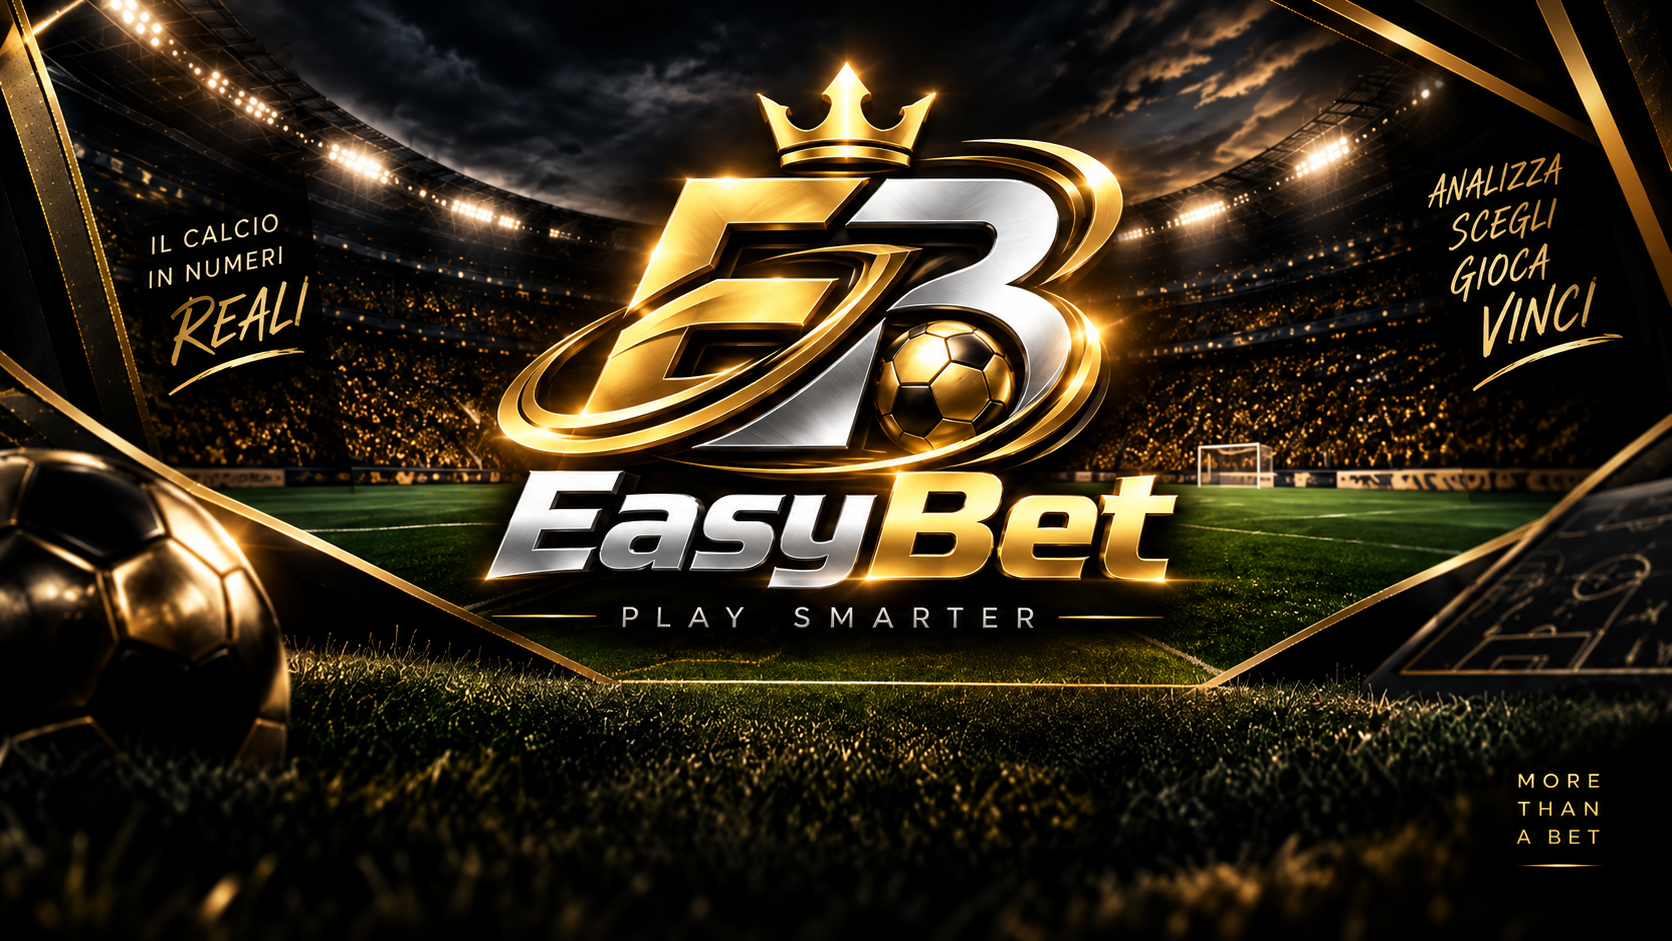
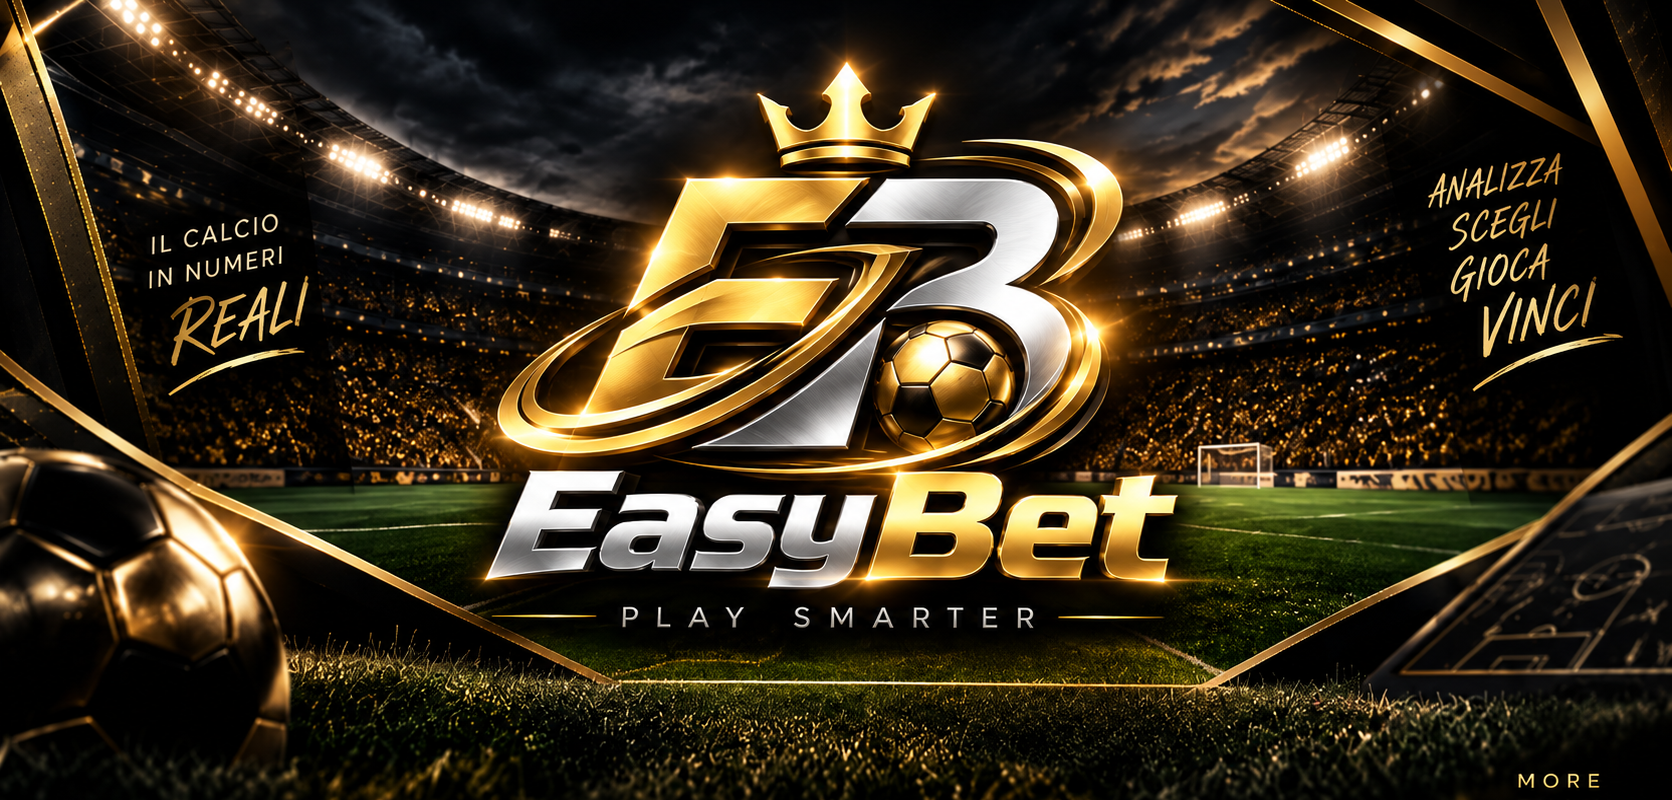
Add files via upload

diff --git a/public/easybet.html b/public/easybet.html
@@ -21,7 +21,7 @@ a{text-decoration:none;color:inherit}.num{font-family:'IBM Plex Mono',monospace}
 .brand-copy{line-height:1}.brand-copy strong{font-size:1.28rem}.brand-copy strong span{color:var(--gold2)}.brand-copy small{display:block;margin-top:4px;color:#8d8473;font-size:.57rem;letter-spacing:.24em}
 .nav{display:flex;justify-content:center;gap:24px}.nav a{font-size:.78rem;color:#c3baa8;font-weight:600;padding:28px 0 24px;position:relative}.nav a.active,.nav a:hover{color:#fff}.nav a.active:after{content:"";position:absolute;left:0;right:0;bottom:12px;height:2px;background:linear-gradient(90deg,transparent,var(--gold2),transparent)}
 .nav-actions{display:flex;justify-content:flex-end;gap:10px}.nav-btn{padding:11px 19px;border-radius:10px;font-size:.76rem;font-weight:700;border:1px solid rgba(242,208,110,.28);background:#0f0f0e;color:#fff}.nav-btn.primary{background:linear-gradient(180deg,var(--gold2),var(--gold));color:#1b1407;box-shadow:0 8px 22px rgba(216,173,61,.2)}.mobile-menu-btn{display:none;width:44px;height:44px;border-radius:12px;border:1px solid rgba(242,208,110,.28);background:#0f0f0e;color:var(--gold2);font-size:1.2rem;font-weight:800;align-items:center;justify-content:center;cursor:pointer}.mobile-nav{display:none;background:#0b0b0a;border-top:1px solid rgba(242,208,110,.12);border-bottom:1px solid rgba(242,208,110,.12);padding:10px 14px 12px}.mobile-nav.open{display:grid;grid-template-columns:repeat(2,minmax(0,1fr));gap:8px}.mobile-nav a{display:flex;align-items:center;justify-content:center;min-height:46px;padding:10px;border-radius:12px;border:1px solid #2b271f;background:#11100e;color:#d8cfbe;font-size:.8rem;font-weight:700}.mobile-nav a.active,.mobile-nav a:hover{color:#171105;background:linear-gradient(180deg,var(--gold2),var(--gold));border-color:var(--gold)}
-.hero{position:relative;background:#0a0907}.hero img{width:100%;display:block;height:350px;object-fit:cover;object-position:center 34%}.hero:after{content:"";position:absolute;left:0;right:0;bottom:0;height:30px;background:linear-gradient(180deg,transparent,#080807)}
+.hero{position:relative;background:#0a0907}.hero img{width:100%;display:block;height:800px;object-fit:cover;object-position:center top}.hero:after{content:"";position:absolute;left:0;right:0;bottom:0;height:30px;background:linear-gradient(180deg,transparent,#080807)}
 .section{padding:14px 24px 34px;background:linear-gradient(180deg,#090909,#060606)}
 .section-head{display:flex;justify-content:space-between;align-items:center;gap:14px;padding:8px 0 12px}.title-wrap{display:flex;align-items:center;gap:12px}.accent-line{width:6px;height:34px;border-radius:3px;background:linear-gradient(180deg,var(--gold2),var(--gold));box-shadow:0 0 18px rgba(242,208,110,.24)}
 .section-head h2{margin:0;font-size:1.16rem;letter-spacing:.01em}.section-head p{margin:3px 0 0;color:#9a9180;font-size:.72rem;letter-spacing:.05em}.refresh{font-size:.7rem;color:#7f7768}
@@ -31,8 +31,8 @@ a{text-decoration:none;color:inherit}.num{font-family:'IBM Plex Mono',monospace}
 .matchup{position:relative;z-index:1;display:grid;grid-template-columns:1fr auto 1fr;align-items:center;gap:10px;padding:14px 8px 12px;border-radius:16px;background:linear-gradient(180deg,rgba(255,255,255,.025),rgba(255,255,255,.01));border:1px solid rgba(255,255,255,.05)}.team{text-align:center}.role{font-size:.58rem;text-transform:uppercase;letter-spacing:.16em;color:#b7ad99;margin-bottom:8px}.crest-wrap{width:84px;height:84px;border-radius:18px;margin:0 auto 8px;display:grid;place-items:center;background:rgba(14,14,13,.82);border:1px solid rgba(255,255,255,.08);box-shadow:inset 0 1px 0 rgba(255,255,255,.04)}.crest{width:64px;height:64px;object-fit:contain}.crest.placeholder{display:grid;place-items:center;color:#d8c39b;font-weight:800;font-size:1rem}.team-name{font-size:.92rem;font-weight:800}.vs{width:46px;height:46px;border-radius:50%;display:grid;place-items:center;background:linear-gradient(180deg,var(--gold2),var(--gold));color:#1a1408;font-weight:800;box-shadow:0 6px 14px rgba(216,173,61,.22)}
 .info-grid{position:relative;z-index:1;display:grid;grid-template-columns:1fr 1fr;gap:0;border-top:1px solid rgba(243,210,113,.55);margin-top:2px;padding-top:10px}.info{background:transparent;border:none;border-radius:0;padding:0 10px}.info + .info{border-left:1px solid rgba(243,210,113,.45)}.info label{font-size:.58rem;text-transform:uppercase;letter-spacing:.09em;color:#b7ad99}.info strong{display:block;margin-top:6px;font-size:1.08rem}.info.strategy strong{font-size:.9rem;line-height:1.22}
 .status{position:relative;z-index:1;margin-top:auto;padding:10px 14px;border-radius:14px;text-transform:uppercase;border:1px solid;display:flex;align-items:center;justify-content:center;gap:12px;min-height:56px}.status-icon{font-size:1.7rem;line-height:1}.status-copy{display:flex;flex-direction:column;align-items:flex-start;line-height:1}.status-copy small{font-size:.55rem;letter-spacing:.18em;opacity:.95;margin-bottom:4px}.status-copy strong{font-size:1rem;letter-spacing:.02em}.status.entrata_vinta{color:#18ff63;background:linear-gradient(180deg,rgba(4,90,33,.90),rgba(7,71,28,.96));border-color:rgba(30,242,103,.92);box-shadow:inset 0 0 0 1px rgba(30,242,103,.22),0 0 18px rgba(30,242,103,.24)}.status.entrata_persa{color:#ffd9d8;background:linear-gradient(180deg,rgba(120,19,18,.92),rgba(94,13,12,.96));border-color:rgba(255,85,79,.92);box-shadow:inset 0 0 0 1px rgba(255,85,79,.18),0 0 16px rgba(255,85,79,.22)}.status.non_entrata{color:#ffe8a2;background:linear-gradient(180deg,rgba(112,87,14,.92),rgba(94,70,9,.96));border-color:rgba(255,211,79,.92);box-shadow:inset 0 0 0 1px rgba(255,211,79,.18),0 0 16px rgba(255,211,79,.20)}.status.attesa{color:#eef2f8;background:linear-gradient(180deg,rgba(58,63,74,.62),rgba(44,48,56,.74));border-color:rgba(170,177,188,.38)}.empty{grid-column:1/-1;text-align:center;color:#847b6b;padding:50px}
-@media(max-width:900px){.page-shell{width:min(100vw - 16px,100vw - 16px);margin:8px auto 20px}.topbar{grid-template-columns:1fr auto auto;height:auto;padding:12px 16px}.nav{display:none}.mobile-menu-btn{display:flex}.hero img{height:230px;object-fit:cover;object-position:center 36%}.section{padding:12px 14px 28px}.grid{grid-template-columns:repeat(auto-fill,minmax(210px,1fr));justify-content:stretch}.nav-actions{gap:6px}.nav-btn{padding:9px 12px}}
-@media(max-width:560px){body{background:#070707}.page-shell{width:100%;margin:0;border-radius:0}.topbar{grid-template-columns:1fr auto auto;padding:12px}.brand-copy small{display:none}.nav-actions .nav-btn:first-child{display:none}.nav-actions .nav-btn.primary{padding:10px 14px}.mobile-menu-btn{width:42px;height:42px}.mobile-nav.open{grid-template-columns:1fr 1fr;padding:10px 12px 12px}.hero img{height:200px;object-position:center 38%}.toolbar{justify-content:flex-start}.pills{width:100%}.pill{flex:1}.grid{grid-template-columns:1fr}.info-grid{grid-template-columns:1fr}}
+@media(max-width:900px){.page-shell{width:min(100vw - 16px,100vw - 16px);margin:8px auto 20px}.topbar{grid-template-columns:1fr auto auto;height:auto;padding:12px 16px}.nav{display:none}.mobile-menu-btn{display:flex}.hero img{height:420px;object-fit:cover;object-position:center top}.section{padding:12px 14px 28px}.grid{grid-template-columns:repeat(auto-fill,minmax(210px,1fr));justify-content:stretch}.nav-actions{gap:6px}.nav-btn{padding:9px 12px}}
+@media(max-width:560px){body{background:#070707}.page-shell{width:100%;margin:0;border-radius:0}.topbar{grid-template-columns:1fr auto auto;padding:12px}.brand-copy small{display:none}.nav-actions .nav-btn:first-child{display:none}.nav-actions .nav-btn.primary{padding:10px 14px}.mobile-menu-btn{width:42px;height:42px}.mobile-nav.open{grid-template-columns:1fr 1fr;padding:10px 12px 12px}.hero img{height:280px;object-position:center top}.toolbar{justify-content:flex-start}.pills{width:100%}.pill{flex:1}.grid{grid-template-columns:1fr}.info-grid{grid-template-columns:1fr}}
 
 .stats-dashboard{display:none;grid-template-columns:repeat(12,minmax(0,1fr));gap:16px;margin-top:6px}.stats-dashboard.show{display:grid}.stat-box{grid-column:span 3;background:linear-gradient(180deg,#141310,#0c0c0b);border:1px solid #2c2922;border-radius:18px;padding:18px;box-shadow:0 12px 28px rgba(0,0,0,.22)}.stat-box .stat-label{font-size:.68rem;color:#978e7e;text-transform:uppercase;letter-spacing:.12em}.stat-box .stat-value{font-size:2rem;font-weight:800;margin-top:8px}.stat-box .stat-foot{font-size:.72rem;color:#8d8474;margin-top:6px}.stat-box.win{border-color:rgba(36,216,108,.34)}.stat-box.win .stat-value{color:var(--green)}.stat-box.loss{border-color:rgba(255,75,69,.34)}.stat-box.loss .stat-value{color:var(--red)}.stat-box.skip{border-color:rgba(240,200,60,.34)}.stat-box.skip .stat-value{color:var(--yellow)}.stat-box.rate{border-color:rgba(243,210,113,.34)}.stat-box.rate .stat-value{color:var(--gold2)}.chart-box{grid-column:span 6;background:linear-gradient(180deg,#12110f,#0b0b0a);border:1px solid #2b271f;border-radius:20px;padding:18px;min-height:320px}.chart-title{font-size:.92rem;font-weight:800}.chart-sub{font-size:.7rem;color:#8c8373;margin-top:3px}.donut-wrap{display:flex;align-items:center;justify-content:center;gap:26px;height:250px;flex-wrap:wrap}.donut{width:190px;height:190px;border-radius:50%;position:relative;background:conic-gradient(var(--green) 0 var(--winPct,0%),var(--red) var(--winPct,0%) calc(var(--winPct,0%) + var(--lossPct,0%)),var(--yellow) calc(var(--winPct,0%) + var(--lossPct,0%)) 100%);box-shadow:0 0 28px rgba(0,0,0,.35)}.donut:after{content:'';position:absolute;inset:31px;border-radius:50%;background:#0e0e0d;border:1px solid #26231d}.donut-center{position:absolute;inset:0;display:grid;place-items:center;z-index:2;text-align:center}.donut-center strong{font-size:1.7rem}.donut-center span{font-size:.62rem;color:#8f8778;text-transform:uppercase;letter-spacing:.1em}.chart-legend{display:flex;flex-direction:column;gap:12px;min-width:170px}.chart-legend-row{display:flex;align-items:center;justify-content:space-between;gap:16px;font-size:.78rem}.chart-legend-row span:first-child{display:flex;align-items:center;gap:8px}.dot{width:10px;height:10px;border-radius:50%}.dot.g{background:var(--green)}.dot.r{background:var(--red)}.dot.y{background:var(--yellow)}.trend-wrap{height:250px;margin-top:14px;position:relative}.trend-svg{width:100%;height:100%;overflow:visible}.trend-grid{stroke:rgba(255,255,255,.08);stroke-width:1}.trend-line{fill:none;stroke:var(--gold2);stroke-width:3;filter:drop-shadow(0 0 6px rgba(243,210,113,.28))}.trend-area{fill:url(#trendArea)}.trend-point{fill:var(--gold2);stroke:#120f09;stroke-width:2}.trend-labels{display:flex;justify-content:space-between;color:#756d60;font-size:.62rem;margin-top:6px}.stats-note{grid-column:1/-1;color:#8f8676;font-size:.72rem;line-height:1.5;padding:0 2px}.stats-empty{grid-column:1/-1;padding:55px;text-align:center;border:1px dashed #332d22;border-radius:18px;color:#857c6e}@media(max-width:900px){.stat-box{grid-column:span 6}.chart-box{grid-column:1/-1}}@media(max-width:560px){.stat-box{grid-column:1/-1}.donut-wrap{height:auto;padding:18px 0}.chart-box{min-height:290px}}
 
